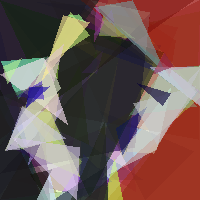
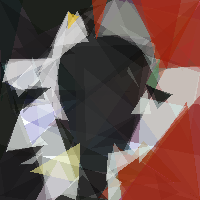
Add colour-prior evolutionary variant which has helped, big big tail off after like 700 evos, but still progress so idk

diff --git a/variants/evoart_high_refinement_patch.py b/variants/evoart_high_refinement_patch.py
@@ -28,41 +28,6 @@ def clamp(value, low, high):
     return max(low, min(high, value))
 
 
-def random_colour():
-    colour_type = random.random()
-
-    if colour_type < 0.45:
-        grey = random.choice(
-            (
-                random.randint(0, 35),
-                random.randint(220, 255),
-                random.randint(55, 190),
-            )
-        )
-        return grey, grey, grey
-
-    if colour_type < 0.75:
-        base_colours = (
-            (205, 35, 24),
-            (35, 95, 175),
-            (230, 190, 35),
-            (35, 150, 75),
-            (145, 55, 150),
-        )
-        r, g, b = random.choice(base_colours)
-        return (
-            clamp(r + random.randint(-35, 35), 0, 255),
-            clamp(g + random.randint(-35, 35), 0, 255),
-            clamp(b + random.randint(-35, 35), 0, 255),
-        )
-
-    return (
-        random.randint(0, 255),
-        random.randint(0, 255),
-        random.randint(0, 255),
-    )
-
-
 def random_shape(detail_mode=False):
     centre_x = random.randint(0, WIDTH - 1)
     centre_y = random.randint(0, HEIGHT - 1)
@@ -88,8 +53,6 @@ def random_shape(detail_mode=False):
     x2 = clamp(centre_x + random.randint(-radius, radius), 0, WIDTH - 1)
     y2 = clamp(centre_y + random.randint(-radius, radius), 0, HEIGHT - 1)
 
-    r, g, b = random_colour()
-
     return (
         x0,
         y0,
@@ -97,9 +60,9 @@ def random_shape(detail_mode=False):
         y1,
         x2,
         y2,
-        r,
-        g,
-        b,
+        random.randint(0, 255),
+        random.randint(0, 255),
+        random.randint(0, 255),
         random.randint(30, 160),
     )
 
@@ -162,7 +125,9 @@ def mutate_shape(shape, amount=6, detail_mode=False):
         all_channel_chance = 0.45 if detail_mode else 0.2
 
         if colour_type < full_recolour_chance:
-            r, g, b = random_colour()
+            r = random.randint(0, 255)
+            g = random.randint(0, 255)
+            b = random.randint(0, 255)
 
         elif colour_type < all_channel_chance:
             colour_step = 4 if detail_mode else 5
@@ -237,9 +202,9 @@ def replace_worst_shape(solution, detail_mode=False):
 
 def mutation_count_for_fitness(fitness):
     if fitness >= 0.92:
-        return random.choices([1, 2, 3], weights=[0.5, 0.35, 0.15])[0]
+        return random.choices([1, 2, 3], weights=[0.85, 0.13, 0.02])[0]
     if fitness >= 0.87:
-        return random.choices([1, 2], weights=[0.7, 0.3])[0]
+        return random.choices([1, 2], weights=[0.82, 0.18])[0]
     return 1
 
 
@@ -382,9 +347,9 @@ def detail_mode_for_parent(parent, population):
 
 def deletion_probability_for_parent(parent):
     if parent.fitness >= 0.90:
-        return 0.07
+        return 0.015
     if parent.fitness >= 0.85:
-        return 0.04
+        return 0.025
     return 0.01
 
 

diff --git a/variants/evoart_before_valid_triangles.py b/variants/evoart_before_valid_triangles.py
@@ -28,41 +28,6 @@ def clamp(value, low, high):
     return max(low, min(high, value))
 
 
-def random_colour():
-    colour_type = random.random()
-
-    if colour_type < 0.45:
-        grey = random.choice(
-            (
-                random.randint(0, 35),
-                random.randint(220, 255),
-                random.randint(55, 190),
-            )
-        )
-        return grey, grey, grey
-
-    if colour_type < 0.75:
-        base_colours = (
-            (205, 35, 24),
-            (35, 95, 175),
-            (230, 190, 35),
-            (35, 150, 75),
-            (145, 55, 150),
-        )
-        r, g, b = random.choice(base_colours)
-        return (
-            clamp(r + random.randint(-35, 35), 0, 255),
-            clamp(g + random.randint(-35, 35), 0, 255),
-            clamp(b + random.randint(-35, 35), 0, 255),
-        )
-
-    return (
-        random.randint(0, 255),
-        random.randint(0, 255),
-        random.randint(0, 255),
-    )
-
-
 def random_shape(detail_mode=False):
     centre_x = random.randint(0, WIDTH - 1)
     centre_y = random.randint(0, HEIGHT - 1)
@@ -88,8 +53,6 @@ def random_shape(detail_mode=False):
     x2 = clamp(centre_x + random.randint(-radius, radius), 0, WIDTH - 1)
     y2 = clamp(centre_y + random.randint(-radius, radius), 0, HEIGHT - 1)
 
-    r, g, b = random_colour()
-
     return (
         x0,
         y0,
@@ -97,9 +60,9 @@ def random_shape(detail_mode=False):
         y1,
         x2,
         y2,
-        r,
-        g,
-        b,
+        random.randint(0, 255),
+        random.randint(0, 255),
+        random.randint(0, 255),
         random.randint(30, 160),
     )
 
@@ -162,7 +125,9 @@ def mutate_shape(shape, amount=6, detail_mode=False):
         all_channel_chance = 0.45 if detail_mode else 0.2
 
         if colour_type < full_recolour_chance:
-            r, g, b = random_colour()
+            r = random.randint(0, 255)
+            g = random.randint(0, 255)
+            b = random.randint(0, 255)
 
         elif colour_type < all_channel_chance:
             colour_step = 4 if detail_mode else 5
